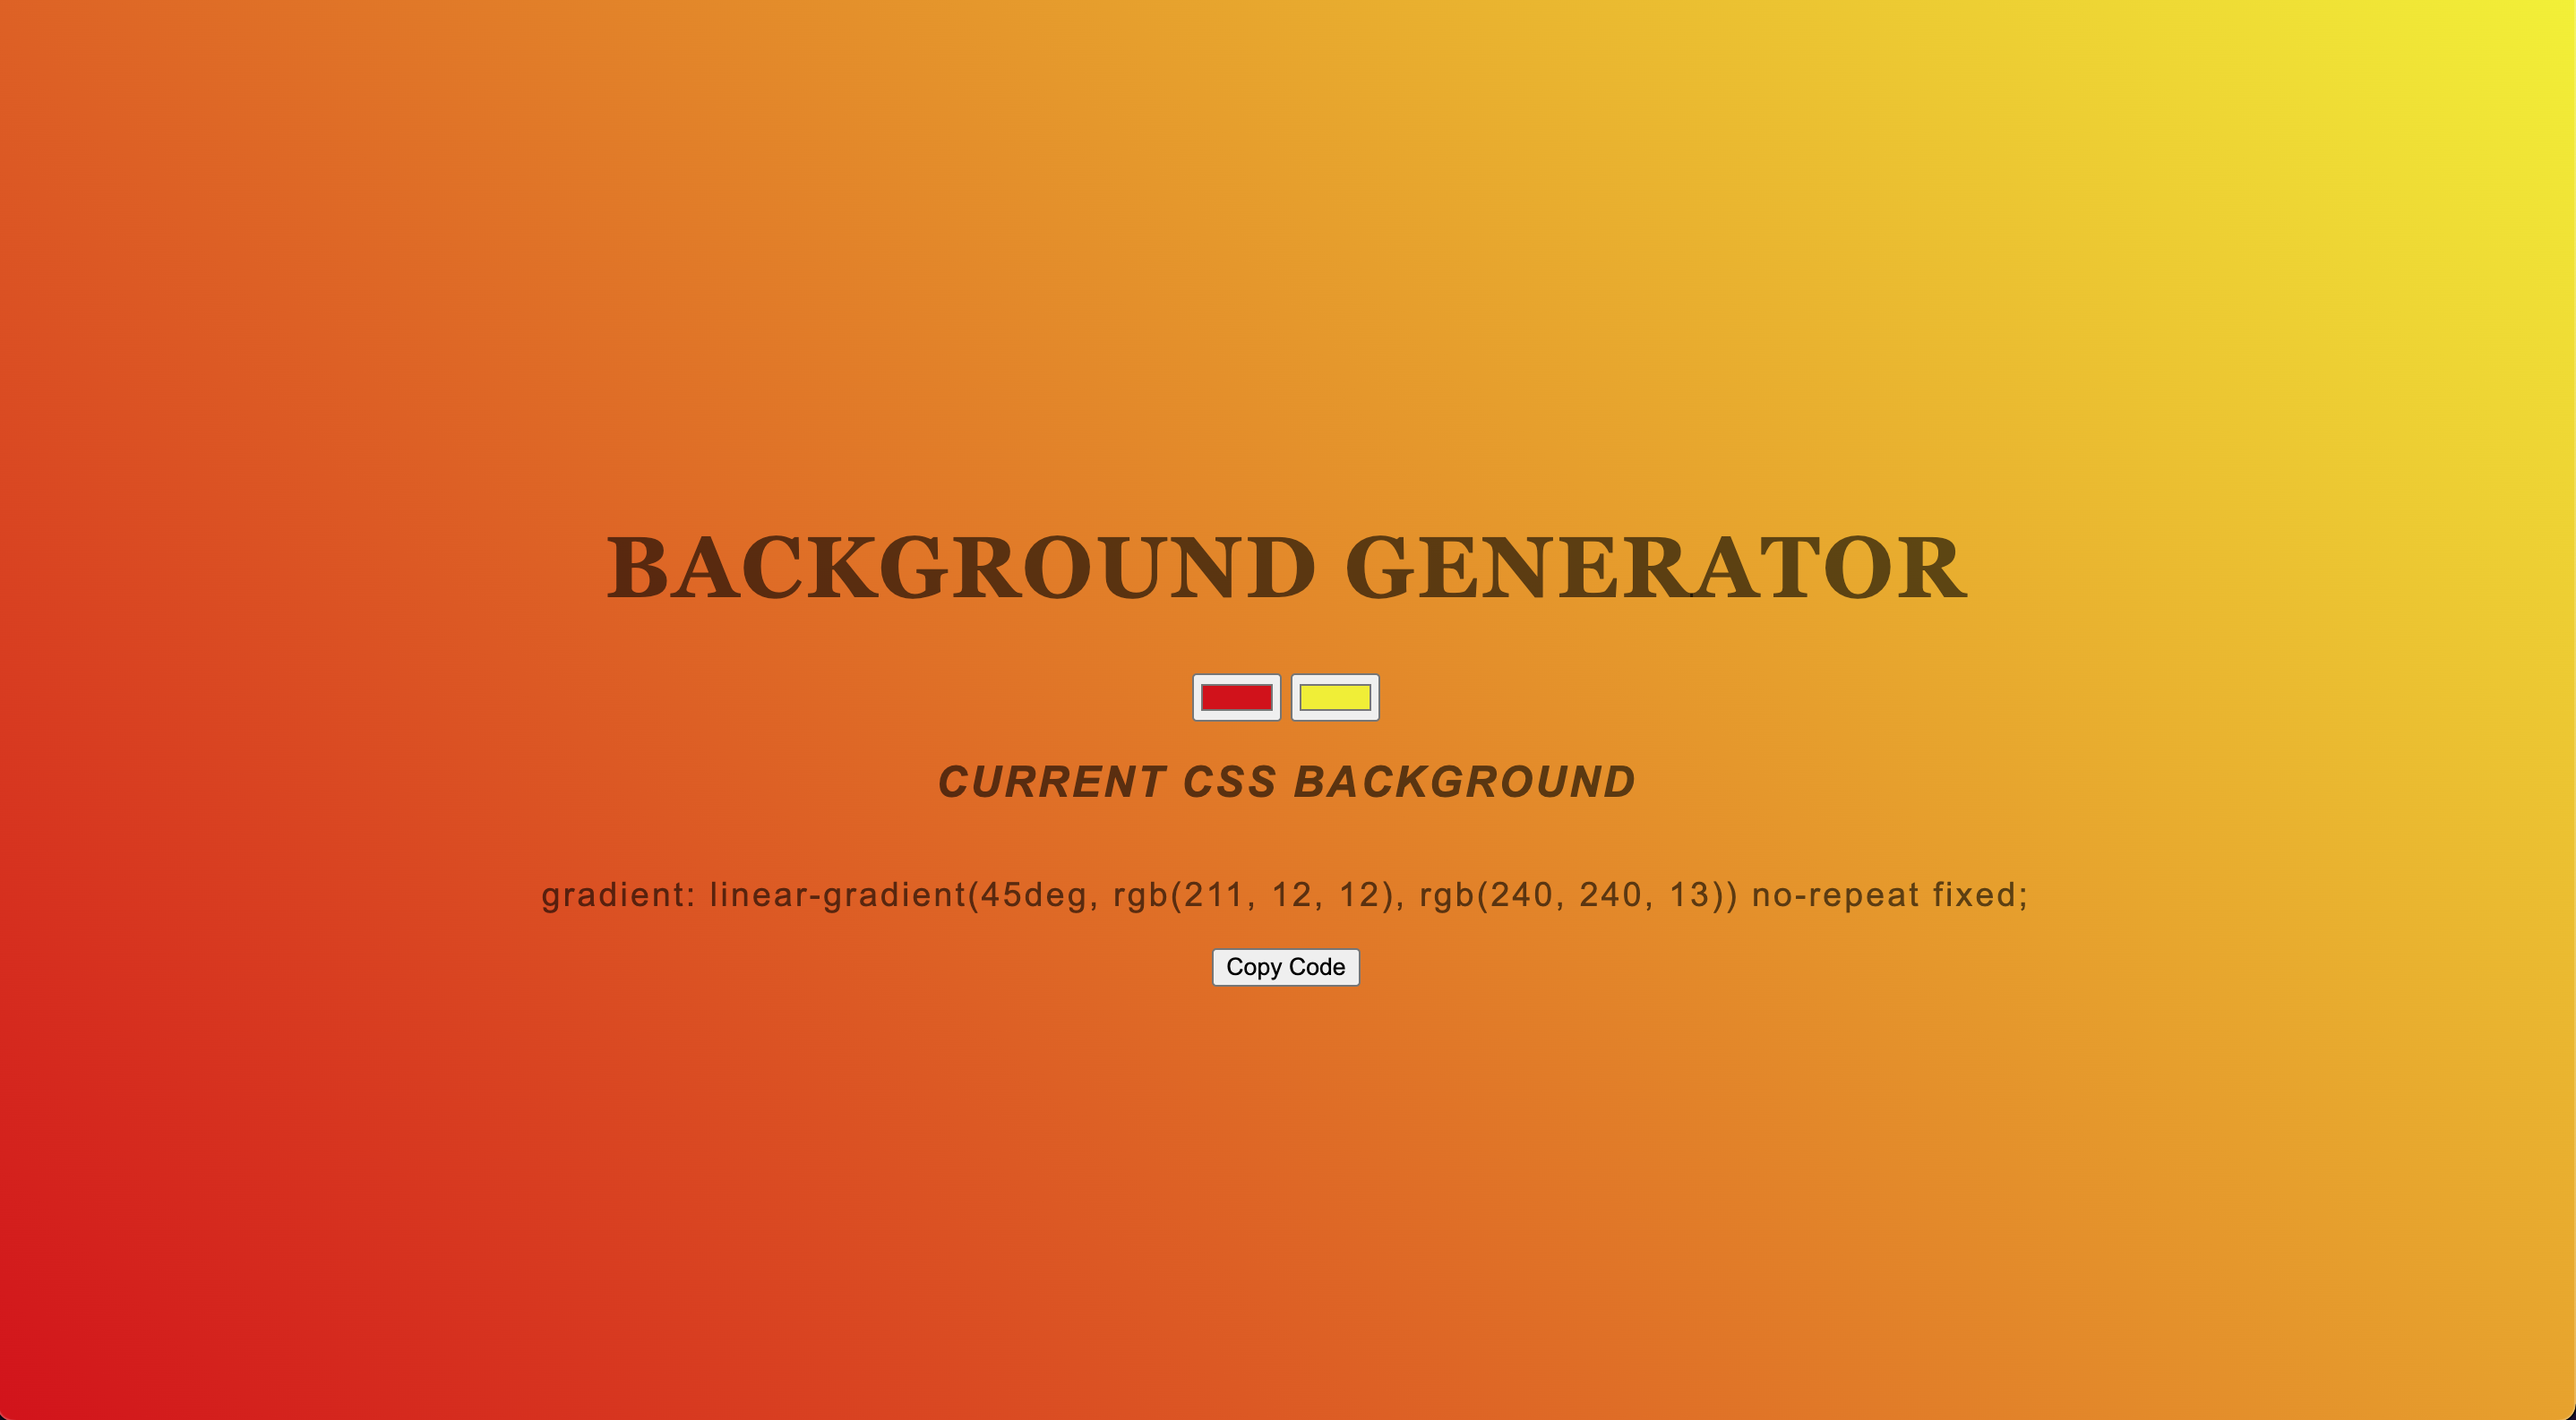
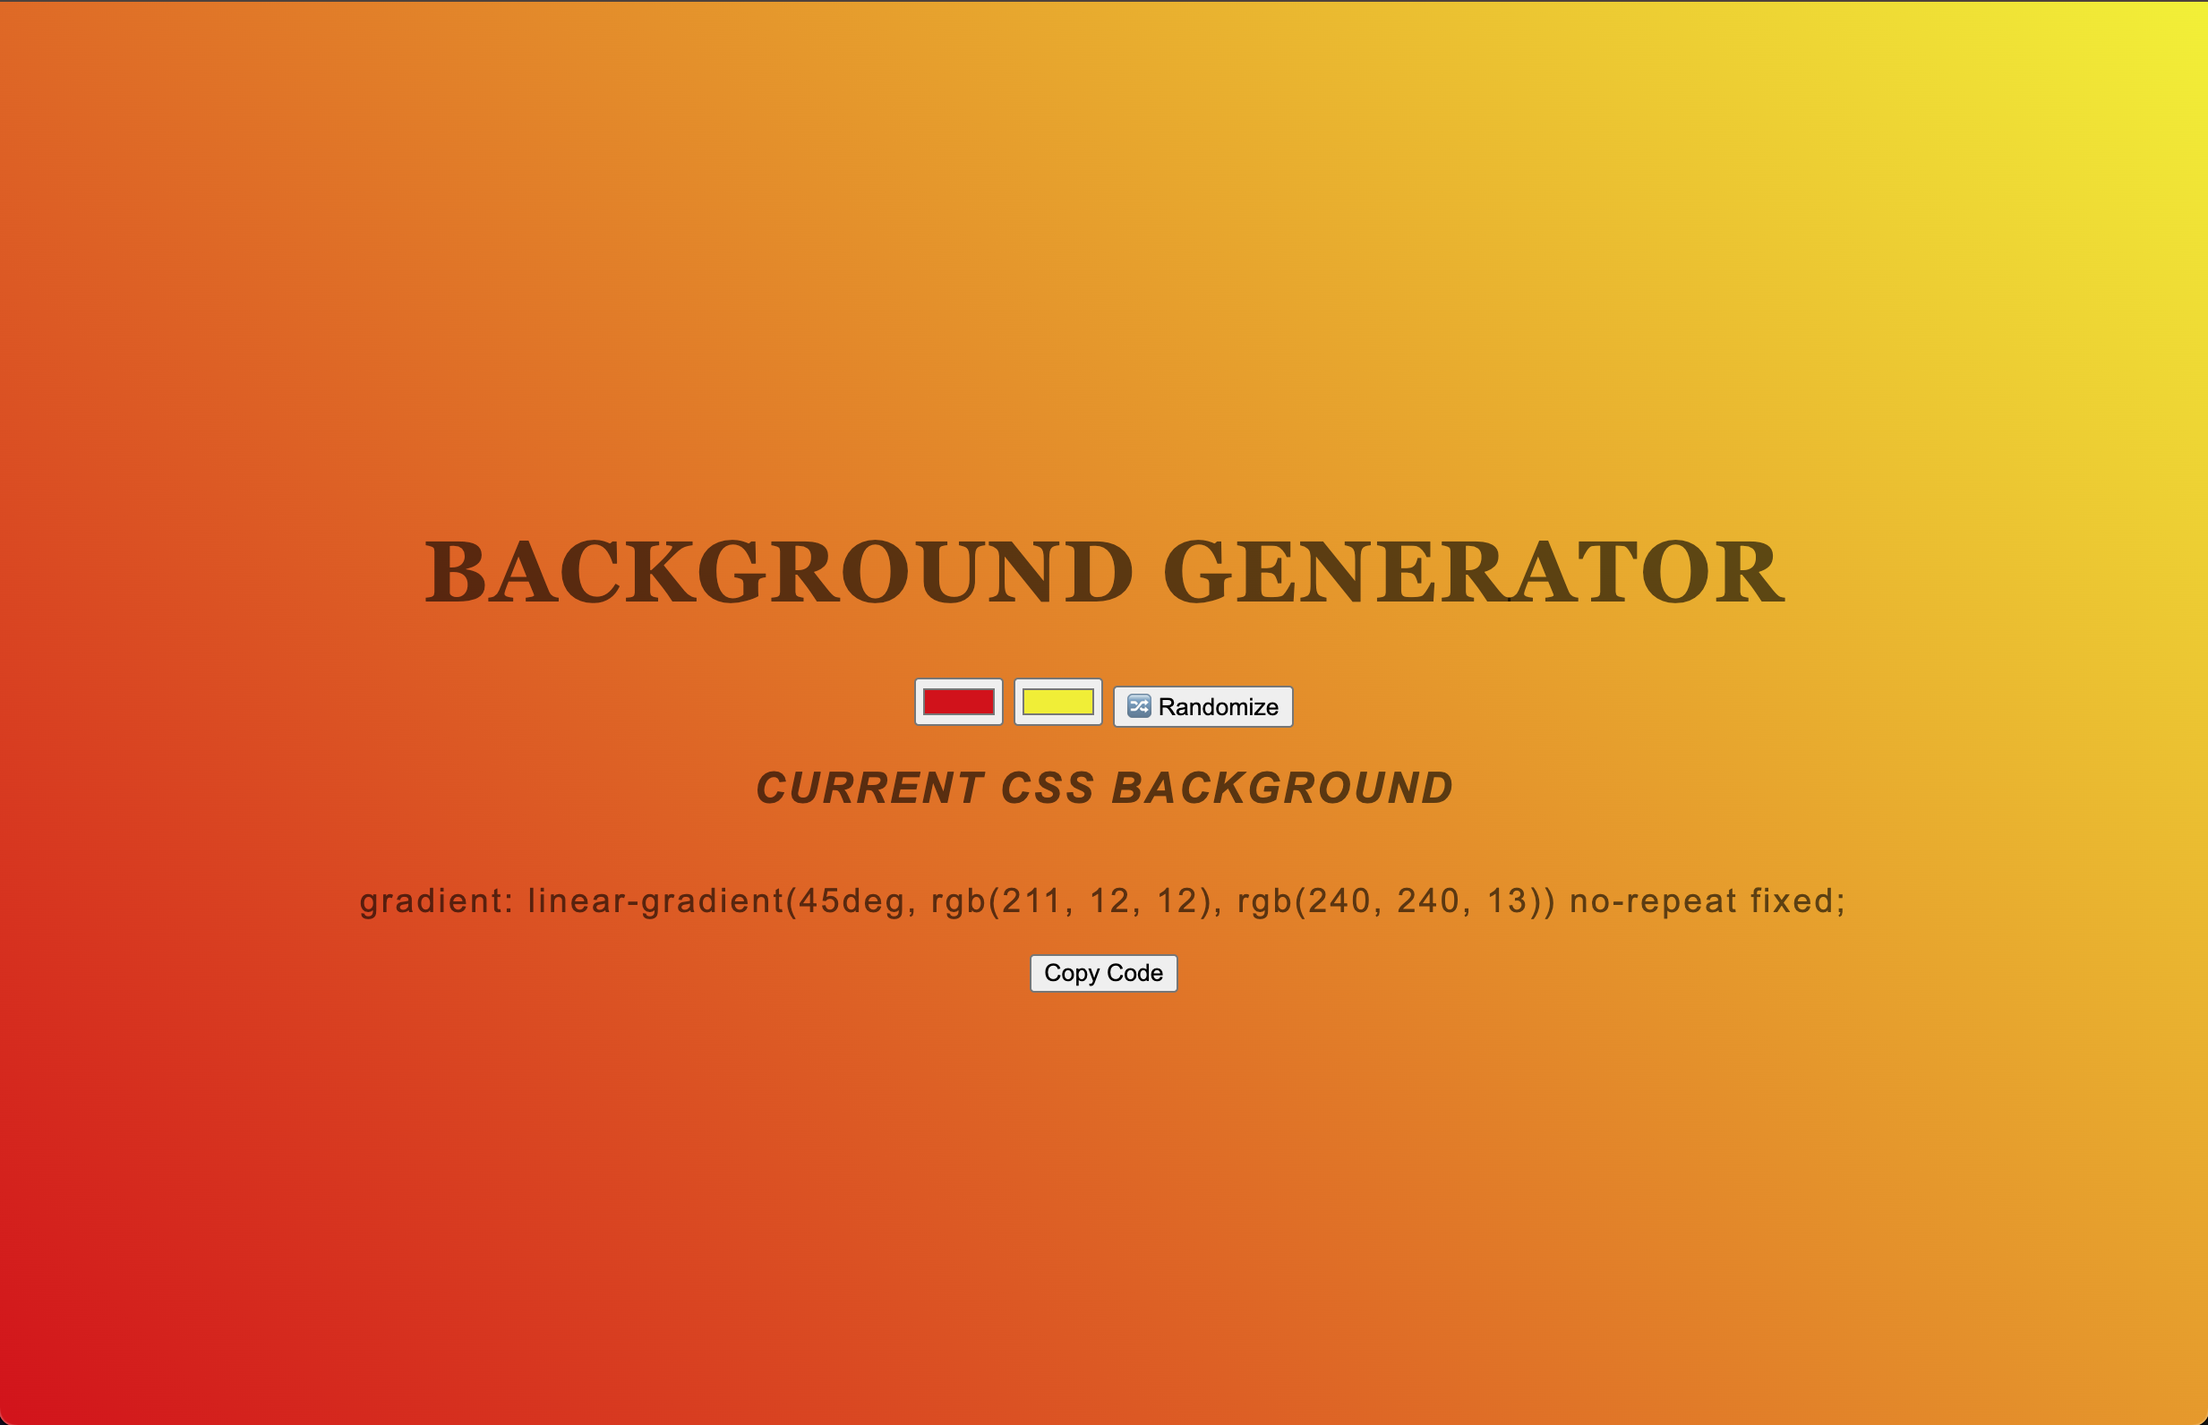
Update!

diff --git a/src/index.html b/src/index.html
@@ -178,7 +178,8 @@
                 <div>
                   <p class="mb-4">
                     A website that changes gradient based on colors 
-                    chosen and provides a code for it to copy.
+                    chosen or using randomize button to get a random mix 
+                    and provides a css code for a user to copy.
                   </p>
                 </div>
                 <a
@@ -193,7 +194,7 @@
                   rel="noreferrer"
                   target="_blank"
                   class="cta-btn primary-color-text"
-                  href="https://digitalspice.github.io/BackgroundGradient/"
+                  href="https://github.com/DigitalSpice/BackgroundGradient"
                 >
                   Source Code
                 </a>
@@ -201,7 +202,7 @@
             </div>
             <div class="col-lg-8 col-sm-12">
               <div class="project-wrapper__image load-hidden">
-                <a rel="noreferrer" href="#!" target="_blank">
+                <a rel="noreferrer" href="https://digitalspice.github.io/BackgroundGradient/" target="_blank">
                   <div
                     data-tilt
                     data-tilt-max="4"
@@ -225,7 +226,109 @@
           <div class="row">
             <div class="col-lg-4 col-sm-12">
               <div class="project-wrapper__text load-hidden">
-                <h3 class="project-wrapper__text-title">Project Title 2</h3>
+                <h3 class="project-wrapper__text-title">RoboFriends</h3>
+                <div>
+                  <p class="mb-4">
+                    An app that searches robot contacts (created with dummy data) by user input in real time.
+                  </p>
+                </div>
+                <a
+                  rel="noreferrer"
+                  target="_blank"
+                  class="cta-btn cta-btn--hero"
+                  href="https://digitalspice.github.io/RoboFriends/"
+                >
+                  See Live
+                </a>
+                <a
+                  rel="noreferrer"
+                  target="_blank"
+                  class="cta-btn primary-color-text"
+                  href="https://github.com/DigitalSpice/RoboFriends/tree/main"
+                >
+                  Source Code
+                </a>
+              </div>
+            </div>
+            <div class="col-lg-8 col-sm-12">
+              <div class="project-wrapper__image load-hidden">
+                <a rel="noreferrer" href="https://digitalspice.github.io/RoboFriends/" target="_blank">
+                  <div
+                    data-tilt
+                    data-tilt-max="4"
+                    data-tilt-glare="true"
+                    data-tilt-max-glare="0.5"
+                    class="thumbnail rounded js-tilt"
+                  >
+                    <img
+                      alt="Project Image"
+                      class="img-fluid"
+                      src="assets/Robofriends.png"
+                    />
+                  </div>
+                </a>
+              </div>
+            </div>
+          </div>
+          <!-- /END Project -->
+          <!-- Notice: each .row is a project -->
+          <div class="row">
+            <div class="col-lg-4 col-sm-12">
+              <div class="project-wrapper__text load-hidden">
+                <h3 class="project-wrapper__text-title">Project 4 Coming Soon</h3>
+                <div>
+                  <p class="mb-4">
+                    Lorem ipsum dolor sit, amet consectetur adipisicing elit.
+                    Excepturi neque, ipsa animi maiores repellendus distinctio
+                    aperiam earum dolor voluptatum consequatur blanditiis
+                    inventore debitis fuga numquam voluptate ex architecto
+                    itaque molestiae.
+                  </p>
+                </div>
+                <a
+                  rel="noreferrer"
+                  target="_blank"
+                  class="cta-btn cta-btn--hero"
+                  href="#!"
+                >
+                  See Live
+                </a>
+                <a
+                  rel="noreferrer"
+                  target="_blank"
+                  class="cta-btn primary-color-text"
+                  href="#!"
+                >
+                  Source Code
+                </a>
+              </div>
+            </div>
+            <div class="col-lg-8 col-sm-12">
+              <div class="project-wrapper__image load-hidden">
+                <a rel="noreferrer" href="#!" target="_blank">
+                  <div
+                    data-tilt
+                    data-tilt-max="4"
+                    data-tilt-glare="true"
+                    data-tilt-max-glare="0.5"
+                    class="thumbnail rounded js-tilt"
+                  >
+                    <img
+                      alt="Project Image"
+                      class="img-fluid"
+                      src="assets/project.jpg"
+                    />
+                  </div>
+                </a>
+              </div>
+            </div>
+          </div>
+          <!-- /END Project -->
+          <!-- Notice: each .row is a project -->
+          <div class="row">
+            <div class="col-lg-4 col-sm-12">
+              <div class="project-wrapper__text load-hidden">
+                <h3 class="project-wrapper__text-title">Project 5 Coming Soon</h3>
                 <div>
                   <p class="mb-4">
                     Lorem ipsum dolor sit, amet consectetur adipisicing elit.
